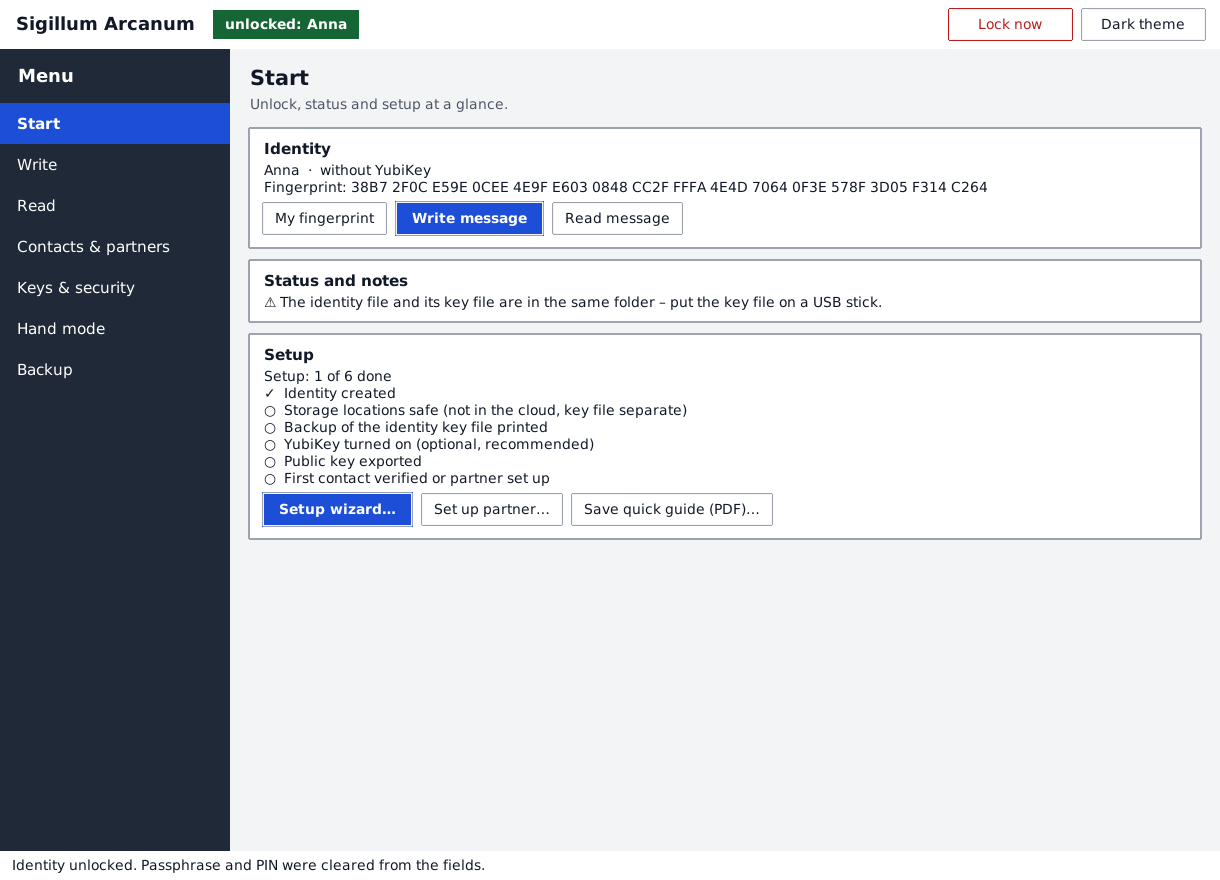
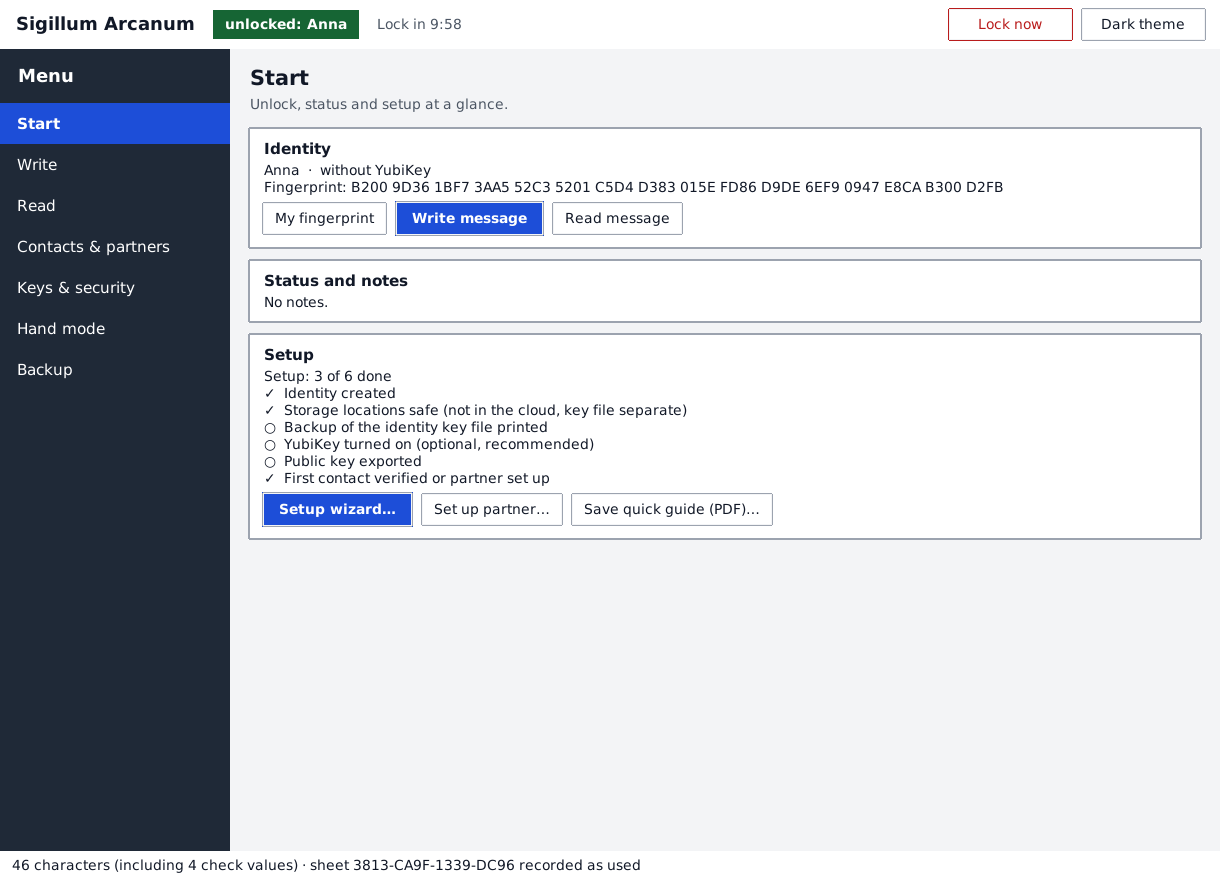
README: englische Screenshots mit Beschreibung, Hand-Modus-Statuszeile
- README: Galerie mit 10 englischen Bildern (Schreiben, Lesen, Kontakte, Hand-Modus, Start,
  Schlüssel & Sicherheit, Assistent, dunkles Design, Referenzkarte) jeweils mit kurzer Beschreibung
- Screenshots zeigen echte Abläufe (Nachricht zwischen zwei Test-Identitäten, Hand-Modus-Blatt)
- Hand-Modus: Ergebnis steht auch in der Statuszeile (vorher blieb „Verschlüssele …“ stehen),
  Hinweistext bricht um statt abgeschnitten zu werden

diff --git a/sigillum/gui_pages.py b/sigillum/gui_pages.py
@@ -1174,7 +1174,7 @@ class PagesMixin:
         r = row(c)
         ttk.Button(r, text=_("↓ Verschlüsseln"), style="Primary.TButton", command=self.hand_encrypt).pack(side="left")
         ttk.Button(r, text=_("↑ Entschlüsseln"), command=self.hand_decrypt).pack(side="left", padx=8)
-        self.l_hand = ttk.Label(r, text="", style="Muted.TLabel")
+        self.l_hand = ttk.Label(r, text="", style="Muted.TLabel", wraplength=560, justify="left")
         self.l_hand.pack(side="left", padx=8)
         ttk.Label(c, text=_("Geheimtext (Glyphen)"), style="Card.TLabel").pack(anchor="w")
         fr, self.t_hcipher = scrolled_text(c, height=4, font=self.glyph_font, app=self)
@@ -1182,6 +1182,7 @@ class PagesMixin:
 
     def _hand_label(self, text, warn=False):
         self.l_hand.configure(text=text, style="Warn.TLabel" if warn else "Muted.TLabel")
+        self.set_status(text)                    # Statuszeile nicht auf „Verschlüssele …“ stehen lassen
 
     def make_pad(self):
         try:

diff --git a/README.md b/README.md
@@ -7,7 +7,7 @@ and hybrid post-quantum cryptography aligned with the German BSI TR-02102-1.
 > The code has been through repeated internal security reviews (see [`docs/SECURITY-REVIEW.md`](docs/SECURITY-REVIEW.md)),
 > but no external audit. Do not rely on it where life, liberty or safety depend on secrecy.
 
-![Start page](docs/bilder/en/04_start_unlocked.png)
+![Reading a contact message – ciphertext in the app's own script, decrypted and verified](docs/bilder/en/09_read_decrypted.png)
 
 ## What it does
 
@@ -29,6 +29,26 @@ and hybrid post-quantum cryptography aligned with the German BSI TR-02102-1.
 
 Symmetric encryption throughout is **AES-256-GCM-SIV** (RFC 8452), key derivation **HKDF-SHA-512**, hashes **SHA-3**.
 The full byte-level specification is in [`FORMAT.en.md`](FORMAT.en.md) (English) and [`FORMAT.md`](FORMAT.md) (German).
+
+## Screenshots
+
+All screenshots show the English interface; the app looks the same in German.
+
+| | |
+| --- | --- |
+| ![Write](docs/bilder/en/05_write.png) | ![Read](docs/bilder/en/09_read_decrypted.png) |
+| **Write.** Choose a verified contact, type the message, encrypt. The ciphertext is shown in the app's own glyph script (or as Base32 for e-mail) and can be copied, saved or printed. | **Read.** Paste one or more messages; the app checks both signatures (classical and post-quantum), shows the sender and deletes receive keys that are no longer needed. |
+| ![Contacts and partners](docs/bilder/en/06_contacts_partners.png) | ![Hand mode](docs/bilder/en/10_hand_mode.png) |
+| **Contacts & partners.** Exchange public keys and verify fingerprints once in person or by video. Partners with a shared key are stored encrypted inside your identity. | **Hand mode.** A one-time pad with forgery protection that also works with pen and paper. The app prints random sheets and keeps an encrypted register so no sheet is used twice. |
+| ![Start page](docs/bilder/en/04_start_unlocked.png) | ![Keys and security](docs/bilder/en/07_keys_security.png) |
+| **Start.** Unlock the identity, see its fingerprint, open notes and the setup checklist. | **Keys & security.** YubiKey on/off, emergency package, automatic lock, quick unlock, theme and language. |
+| ![Setup wizard](docs/bilder/en/03_wizard_passphrase.png) | ![Dark theme](docs/bilder/en/08_dark_theme.png) |
+| **Setup wizard.** Nine steps from storage locations to a printed backup – here the 7-word passphrase that you copy onto paper and type back to check. | **Dark theme.** Light and dark themes; all colours meet a contrast of at least 4.5 : 1 (WCAG AA). |
+
+![Hand mode reference card](docs/bilder/en/11_reference_card.png)
+
+**Reference card for hand mode** (printed by the app): every value has a letter, a digit-mode meaning and four
+interchangeable glyph forms, so the same letter never has to look the same twice.
 
 ## Installation (Windows 10/11)
 
